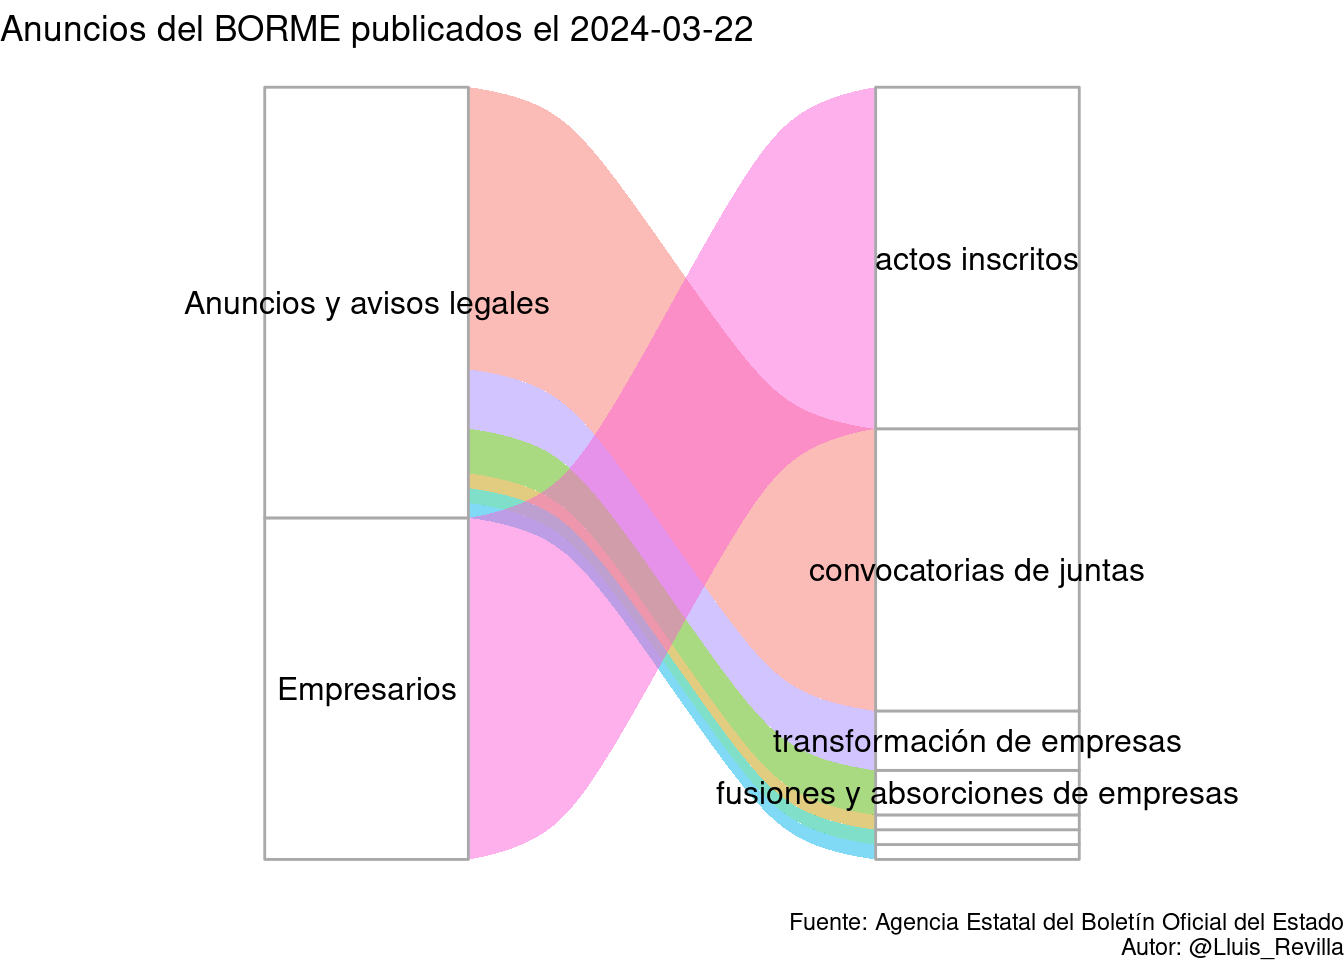
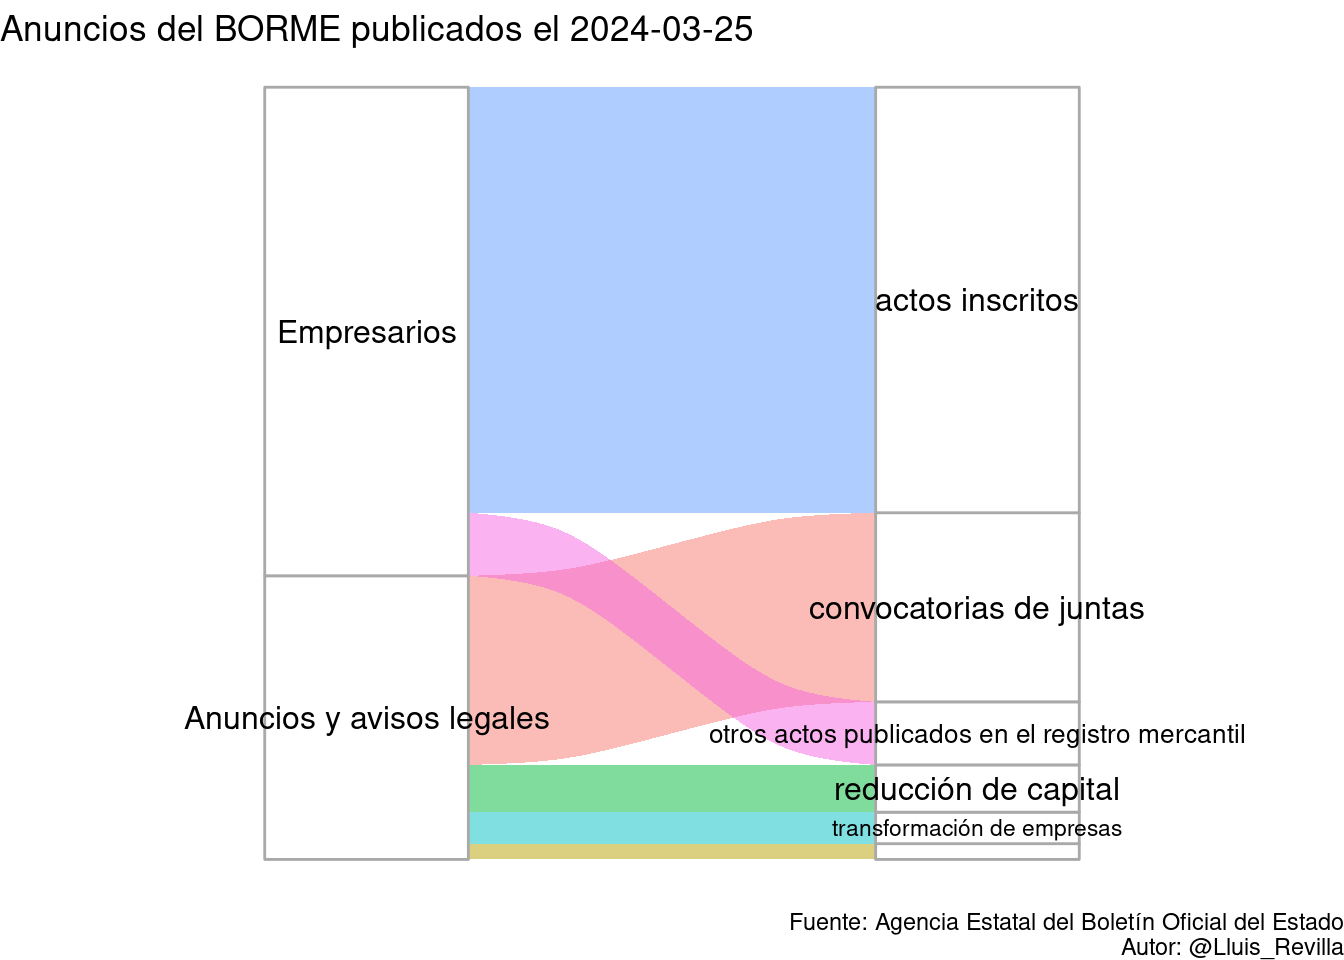
Update BORME

Changed region(s): [[0.125, 0.0938, 0.9375, 0.9062], [0.5312, 0.0, 0.5625, 0.0312]]

diff --git a/docs/last_BORME.html b/docs/last_BORME.html
@@ -32,6 +32,18 @@
 <script src="site_libs/navigation-1.1/tabsets.js"></script>
 <link href="site_libs/highlightjs-9.12.0/default.css" rel="stylesheet" />
 <script src="site_libs/highlightjs-9.12.0/highlight.js"></script>
+<script src="site_libs/htmlwidgets-1.6.2/htmlwidgets.js"></script>
+<link href="site_libs/datatables-css-0.0.0/datatables-crosstalk.css" rel="stylesheet" />
+<script src="site_libs/datatables-binding-0.31/datatables.js"></script>
+<link href="site_libs/dt-core-1.13.6/css/jquery.dataTables.min.css" rel="stylesheet" />
+<link href="site_libs/dt-core-1.13.6/css/jquery.dataTables.extra.css" rel="stylesheet" />
+<script src="site_libs/dt-core-1.13.6/js/jquery.dataTables.min.js"></script>
+<link href="site_libs/nouislider-7.0.10/jquery.nouislider.min.css" rel="stylesheet" />
+<script src="site_libs/nouislider-7.0.10/jquery.nouislider.min.js"></script>
+<link href="site_libs/selectize-0.12.0/selectize.bootstrap3.css" rel="stylesheet" />
+<script src="site_libs/selectize-0.12.0/selectize.min.js"></script>
+<link href="site_libs/crosstalk-1.2.1/css/crosstalk.min.css" rel="stylesheet" />
+<script src="site_libs/crosstalk-1.2.1/js/crosstalk.min.js"></script>
 <link href="site_libs/font-awesome-6.4.2/css/all.min.css" rel="stylesheet" />
 <link href="site_libs/font-awesome-6.4.2/css/v4-shims.min.css" rel="stylesheet" />
 <script async src="https://www.googletagmanager.com/gtag/js?id=UA-57101844-6"></script>
@@ -365,7 +377,17 @@ $(document).ready(function () {
 </div>
 
 
-<p>Sorry tody I couldn’t retrieve the results</p>
+<div id="resumen-gráfico" class="section level1">
+<h1>Resumen gráfico</h1>
+<p>Esta página web contiene el último sumario del BORME publicado el 2024-03-25 con 49 publicaciones.</p>
+<p><img src="last_BORME_files/figure-html/graphics-1.png" width="672" /></p>
+</div>
+<div id="tabla-de-publicaciones" class="section level1">
+<h1>Tabla de publicaciones</h1>
+<p>Aquí está la tabla completa con enlaces a las publicaciones:</p>
+<div class="datatables html-widget html-fill-item-overflow-hidden html-fill-item" id="htmlwidget-dd9c5d6872bfaf9efc4a" style="width:100%;height:auto;"></div>
+<script type="application/json" data-for="htmlwidget-dd9c5d6872bfaf9efc4a">{"x":{"filter":"top","vertical":false,"filterHTML":"<tr>\n  <td><\/td>\n  <td data-type=\"character\" style=\"vertical-align: top;\">\n    <div class=\"form-group has-feedback\" style=\"margin-bottom: auto;\">\n      <input type=\"search\" placeholder=\"All\" class=\"form-control\" style=\"width: 100%;\"/>\n      <span class=\"glyphicon glyphicon-remove-circle form-control-feedback\"><\/span>\n    <\/div>\n  <\/td>\n  <td data-type=\"character\" style=\"vertical-align: top;\">\n    <div class=\"form-group has-feedback\" style=\"margin-bottom: auto;\">\n      <input type=\"search\" placeholder=\"All\" class=\"form-control\" style=\"width: 100%;\"/>\n      <span class=\"glyphicon glyphicon-remove-circle form-control-feedback\"><\/span>\n    <\/div>\n  <\/td>\n  <td data-type=\"character\" style=\"vertical-align: top;\">\n    <div class=\"form-group has-feedback\" style=\"margin-bottom: auto;\">\n      <input type=\"search\" placeholder=\"All\" class=\"form-control\" style=\"width: 100%;\" disabled=\"\"/>\n      <span class=\"glyphicon glyphicon-remove-circle form-control-feedback\"><\/span>\n    <\/div>\n  <\/td>\n  <td data-type=\"character\" style=\"vertical-align: top;\">\n    <div class=\"form-group has-feedback\" style=\"margin-bottom: auto;\">\n      <input type=\"search\" placeholder=\"All\" class=\"form-control\" style=\"width: 100%;\"/>\n      <span class=\"glyphicon glyphicon-remove-circle form-control-feedback\"><\/span>\n    <\/div>\n  <\/td>\n<\/tr>","data":[["1","2","3","4","5","6","7","8","9","10","11","12","13","14","15","16","17","18","19","20","21","22","23","24","25","26","27","28","29","30","31","32","33","34","35","36","37","38","39","40","41","42","43","44","45","46","47","48","49"],["SECCIÓN PRIMERA. Empresarios","SECCIÓN PRIMERA. Empresarios","SECCIÓN PRIMERA. Empresarios","SECCIÓN PRIMERA. Empresarios","SECCIÓN PRIMERA. Empresarios","SECCIÓN PRIMERA. Empresarios","SECCIÓN PRIMERA. Empresarios","SECCIÓN PRIMERA. Empresarios","SECCIÓN PRIMERA. Empresarios","SECCIÓN PRIMERA. Empresarios","SECCIÓN PRIMERA. Empresarios","SECCIÓN PRIMERA. Empresarios","SECCIÓN PRIMERA. Empresarios","SECCIÓN PRIMERA. Empresarios","SECCIÓN PRIMERA. Empresarios","SECCIÓN PRIMERA. Empresarios","SECCIÓN PRIMERA. Empresarios","SECCIÓN PRIMERA. Empresarios","SECCIÓN PRIMERA. Empresarios","SECCIÓN PRIMERA. Empresarios","SECCIÓN PRIMERA. Empresarios","SECCIÓN PRIMERA. Empresarios","SECCIÓN PRIMERA. Empresarios","SECCIÓN PRIMERA. Empresarios","SECCIÓN PRIMERA. Empresarios","SECCIÓN PRIMERA. Empresarios","SECCIÓN PRIMERA. Empresarios","SECCIÓN PRIMERA. Empresarios","SECCIÓN PRIMERA. Empresarios","SECCIÓN PRIMERA. Empresarios","SECCIÓN PRIMERA. Empresarios","SECCIÓN SEGUNDA. Anuncios y avisos legales","SECCIÓN SEGUNDA. Anuncios y avisos legales","SECCIÓN SEGUNDA. Anuncios y avisos legales","SECCIÓN SEGUNDA. Anuncios y avisos legales","SECCIÓN SEGUNDA. Anuncios y avisos legales","SECCIÓN SEGUNDA. Anuncios y avisos legales","SECCIÓN SEGUNDA. Anuncios y avisos legales","SECCIÓN SEGUNDA. Anuncios y avisos legales","SECCIÓN SEGUNDA. Anuncios y avisos legales","SECCIÓN SEGUNDA. Anuncios y avisos legales","SECCIÓN SEGUNDA. Anuncios y avisos legales","SECCIÓN SEGUNDA. Anuncios y avisos legales","SECCIÓN SEGUNDA. Anuncios y avisos legales","SECCIÓN SEGUNDA. Anuncios y avisos legales","SECCIÓN SEGUNDA. Anuncios y avisos legales","SECCIÓN SEGUNDA. Anuncios y avisos legales","SECCIÓN SEGUNDA. Anuncios y avisos legales","SECCIÓN SEGUNDA. Anuncios y avisos legales"],["Actos inscritos","Actos inscritos","Actos inscritos","Actos inscritos","Actos inscritos","Actos inscritos","Actos inscritos","Actos inscritos","Actos inscritos","Actos inscritos","Actos inscritos","Actos inscritos","Actos inscritos","Actos inscritos","Actos inscritos","Actos inscritos","Actos inscritos","Actos inscritos","Actos inscritos","Actos inscritos","Actos inscritos","Actos inscritos","Actos inscritos","Actos inscritos","Actos inscritos","Actos inscritos","Actos inscritos","Otros actos publicados en el Registro Mercantil","Otros actos publicados en el Registro Mercantil","Otros actos publicados en el Registro Mercantil","Otros actos publicados en el Registro Mercantil","CONVOCATORIAS DE JUNTAS","CONVOCATORIAS DE JUNTAS","CONVOCATORIAS DE JUNTAS","CONVOCATORIAS DE JUNTAS","CONVOCATORIAS DE JUNTAS","CONVOCATORIAS DE JUNTAS","CONVOCATORIAS DE JUNTAS","CONVOCATORIAS DE JUNTAS","CONVOCATORIAS DE JUNTAS","CONVOCATORIAS DE JUNTAS","CONVOCATORIAS DE JUNTAS","CONVOCATORIAS DE JUNTAS","ESCISIÓN DE EMPRESAS","TRANSFORMACIÓN DE EMPRESAS","TRANSFORMACIÓN DE EMPRESAS","REDUCCIÓN DE CAPITAL","REDUCCIÓN DE CAPITAL","REDUCCIÓN DE CAPITAL"],[null,null,null,null,null,null,null,null,null,null,null,null,null,null,null,null,null,null,null,null,null,null,null,null,null,null,null,null,null,null,null,null,null,null,null,null,null,null,null,null,null,null,null,null,null,null,null,null,null],["BORME-A-2024-60-02","BORME-A-2024-60-03","BORME-A-2024-60-04","BORME-A-2024-60-06","BORME-A-2024-60-07","BORME-A-2024-60-08","BORME-A-2024-60-11","BORME-A-2024-60-12","BORME-A-2024-60-13","BORME-A-2024-60-15","BORME-A-2024-60-17","BORME-A-2024-60-18","BORME-A-2024-60-24","BORME-A-2024-60-25","BORME-A-2024-60-28","BORME-A-2024-60-29","BORME-A-2024-60-33","BORME-A-2024-60-34","BORME-A-2024-60-35","BORME-A-2024-60-36","BORME-A-2024-60-41","BORME-A-2024-60-43","BORME-A-2024-60-46","BORME-A-2024-60-47","BORME-A-2024-60-49","BORME-A-2024-60-52","BORME-A-2024-60-99","BORME-B-2024-60-08","BORME-B-2024-60-28","BORME-B-2024-60-41","BORME-B-2024-60-50","BORME-C-2024-976","BORME-C-2024-977","BORME-C-2024-978","BORME-C-2024-979","BORME-C-2024-980","BORME-C-2024-981","BORME-C-2024-982","BORME-C-2024-983","BORME-C-2024-984","BORME-C-2024-985","BORME-C-2024-986","BORME-C-2024-987","BORME-C-2024-988","BORME-C-2024-989","BORME-C-2024-990","BORME-C-2024-991","BORME-C-2024-992","BORME-C-2024-993"]],"container":"<table class=\"display\">\n  <thead>\n    <tr>\n      <th> <\/th>\n      <th>Sección<\/th>\n      <th>Emisor<\/th>\n      <th>Texto<\/th>\n      <th>Link<\/th>\n    <\/tr>\n  <\/thead>\n<\/table>","options":{"pageLength":10,"autoWidth":true,"columnDefs":[{"orderable":false,"targets":0},{"name":" ","targets":0},{"name":"Sección","targets":1},{"name":"Emisor","targets":2},{"name":"Texto","targets":3},{"name":"Link","targets":4}],"order":[],"orderClasses":false,"orderCellsTop":true}},"evals":[],"jsHooks":[]}</script>
+</div>
 
 
 
